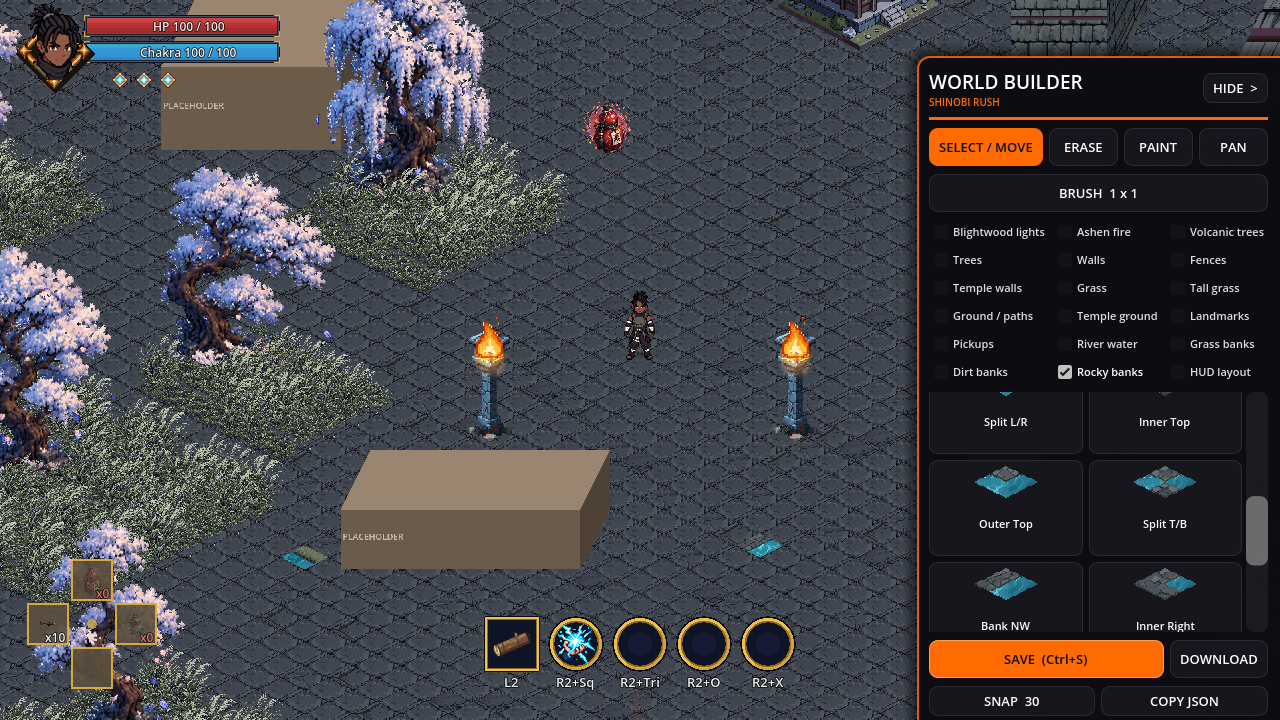
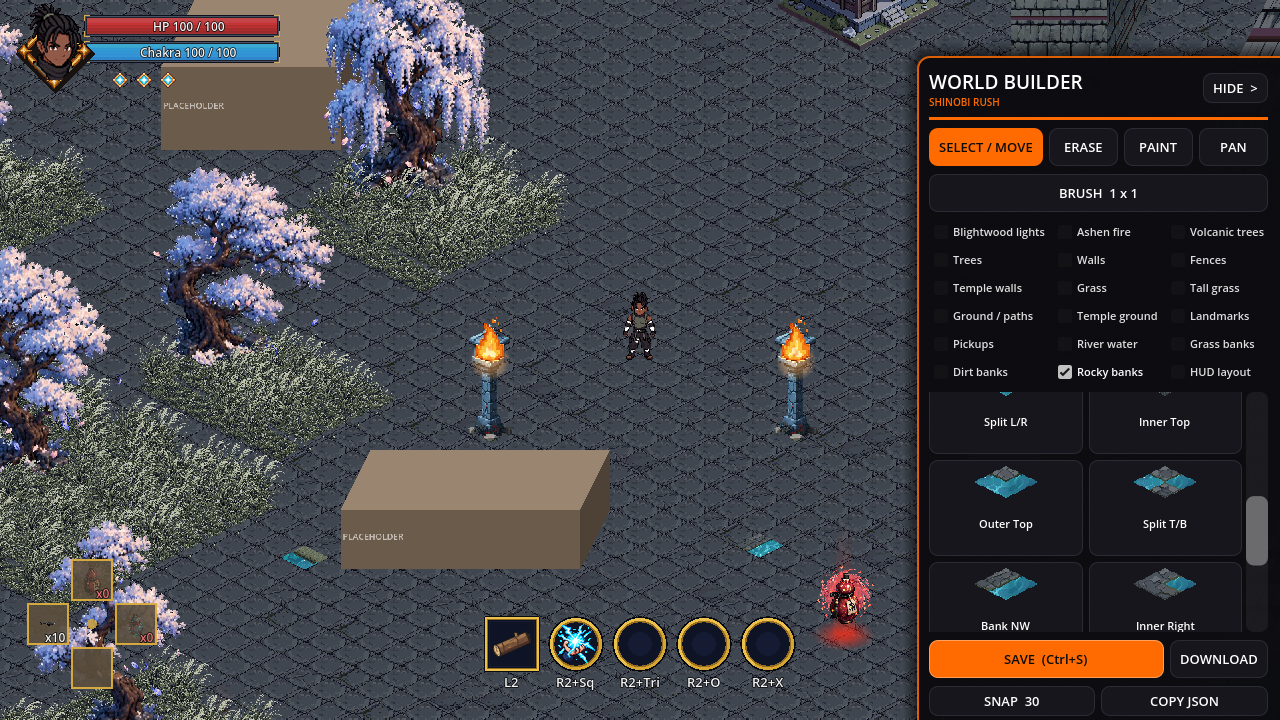
fix: preserve shared water phase when placing shores while paused

diff --git a/orders/Codex/reports/2026-10-24-blightwood-shorelines-report.md b/orders/Codex/reports/2026-10-24-blightwood-shorelines-report.md
@@ -39,3 +39,10 @@ Final GIF packaging:192 frames each,8s normal and16s half, about2.59MB each. Act
 PR https://github.com/kiotdstudios/shinobi-rush/pull/166 initially passed required CI40110908405, repository checks40110908481 and pipeline self-test40110908397. Normal merge was refused with two checks expected while shared main advanced to16d76a9 (Aki enemy-bar art/update). Strict up-to-date policy requires the newer main. Merged origin/main16d76a9 without conflicts, preserving Aki's files unchanged. No rule/CI bypass used.
 
 Godot import PASS (build/blightwood-shorelines-integrated-import); full native suite2502 PASS,0 FAIL (build/blightwood-shorelines-integrated-tests/tests-builtin.log); fresh Web export PASS (../blightwood-shorelines-integrated-web-20261024); repeated real builder probe14/14 PASS,0 errors (build/blightwood-shorelines-integrated-browser). Screenshot/JSON refreshed in docs. Review scene, production shore pixels and GIFs unchanged. Generated untracked shot_enemy_bars UID belongs to incoming tooling and remains excluded alongside existing unrelated artifacts. Await fresh PR CI and main deploy/postdeploy/live verification.
+
+## Paused builder placement phase correction
+Final review identified that a new tile initialized at clock0 while existing water could be frozen at a later shared phase. BlightwoodWater now inherits shared_clock in _ready only for automatic runtime playback, so painting while paused cannot restart an individual tile's current. Manual review clocks remain0 and the source art/GIFs are unchanged.
+
+Added two native regression checks that place both a shore and ordinary river cell while SceneTree is paused at a nonzero shared phase. Focused real water/shore suites via ignored build/shore-phase-proof.gd:134 PASS,0 FAIL. The first temporary harness ran too early in SceneTree initialization; added one await process_frame and reran successfully. No erroneous0-test run is counted as validation.
+
+Fresh Web export ../blightwood-shorelines-phase-web-20261024 PASS. Repeated actual builder probe14/14 PASS,0 errors (build/blightwood-shorelines-phase-browser). Repeated review controls/material focus12/12 PASS,0 errors with --no-capture (build/blightwood-shorelines-phase-review); original192-frame captures remain valid because review actors use manual clocks. Refreshed builder evidence and added phase-validation.json. Full suite before this correction was2502 PASS; required new-head CI will execute the additional regression checks too. Order and whitespace validation PASS before committing this correction.
